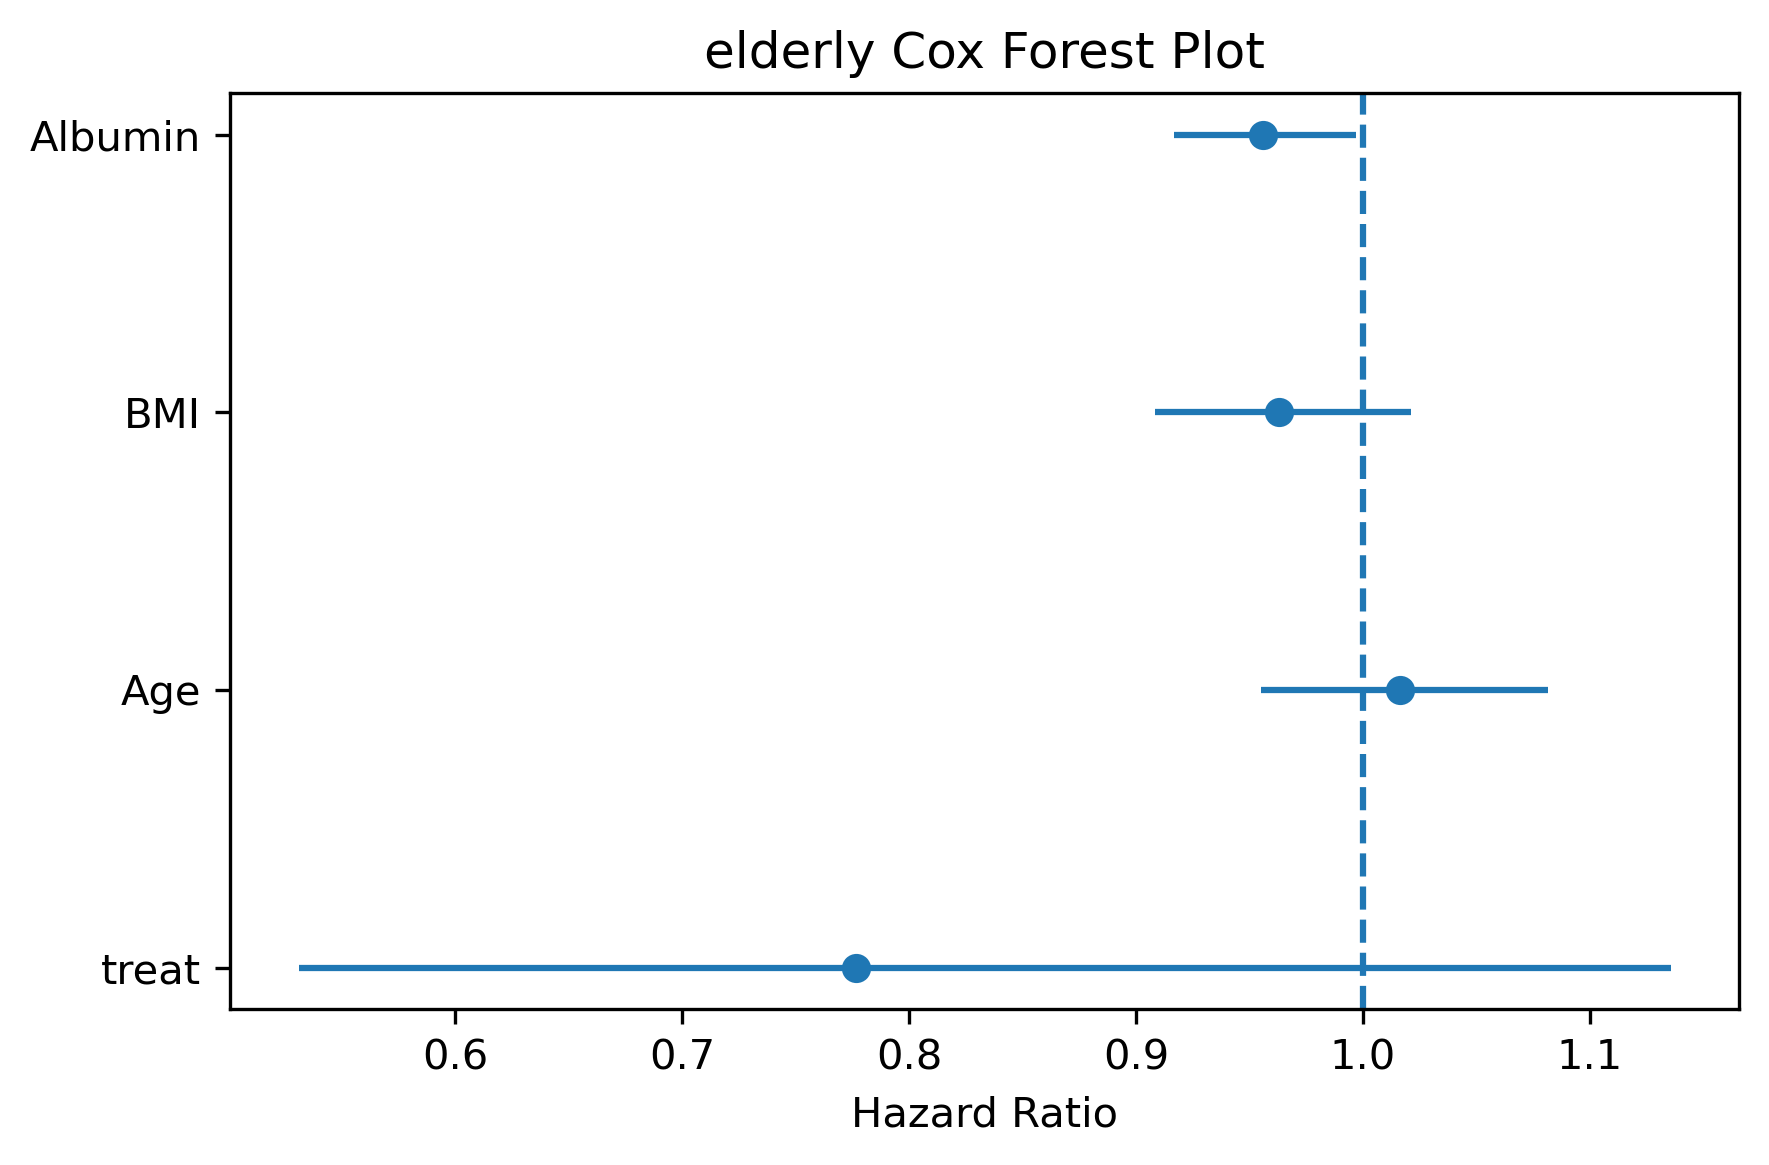
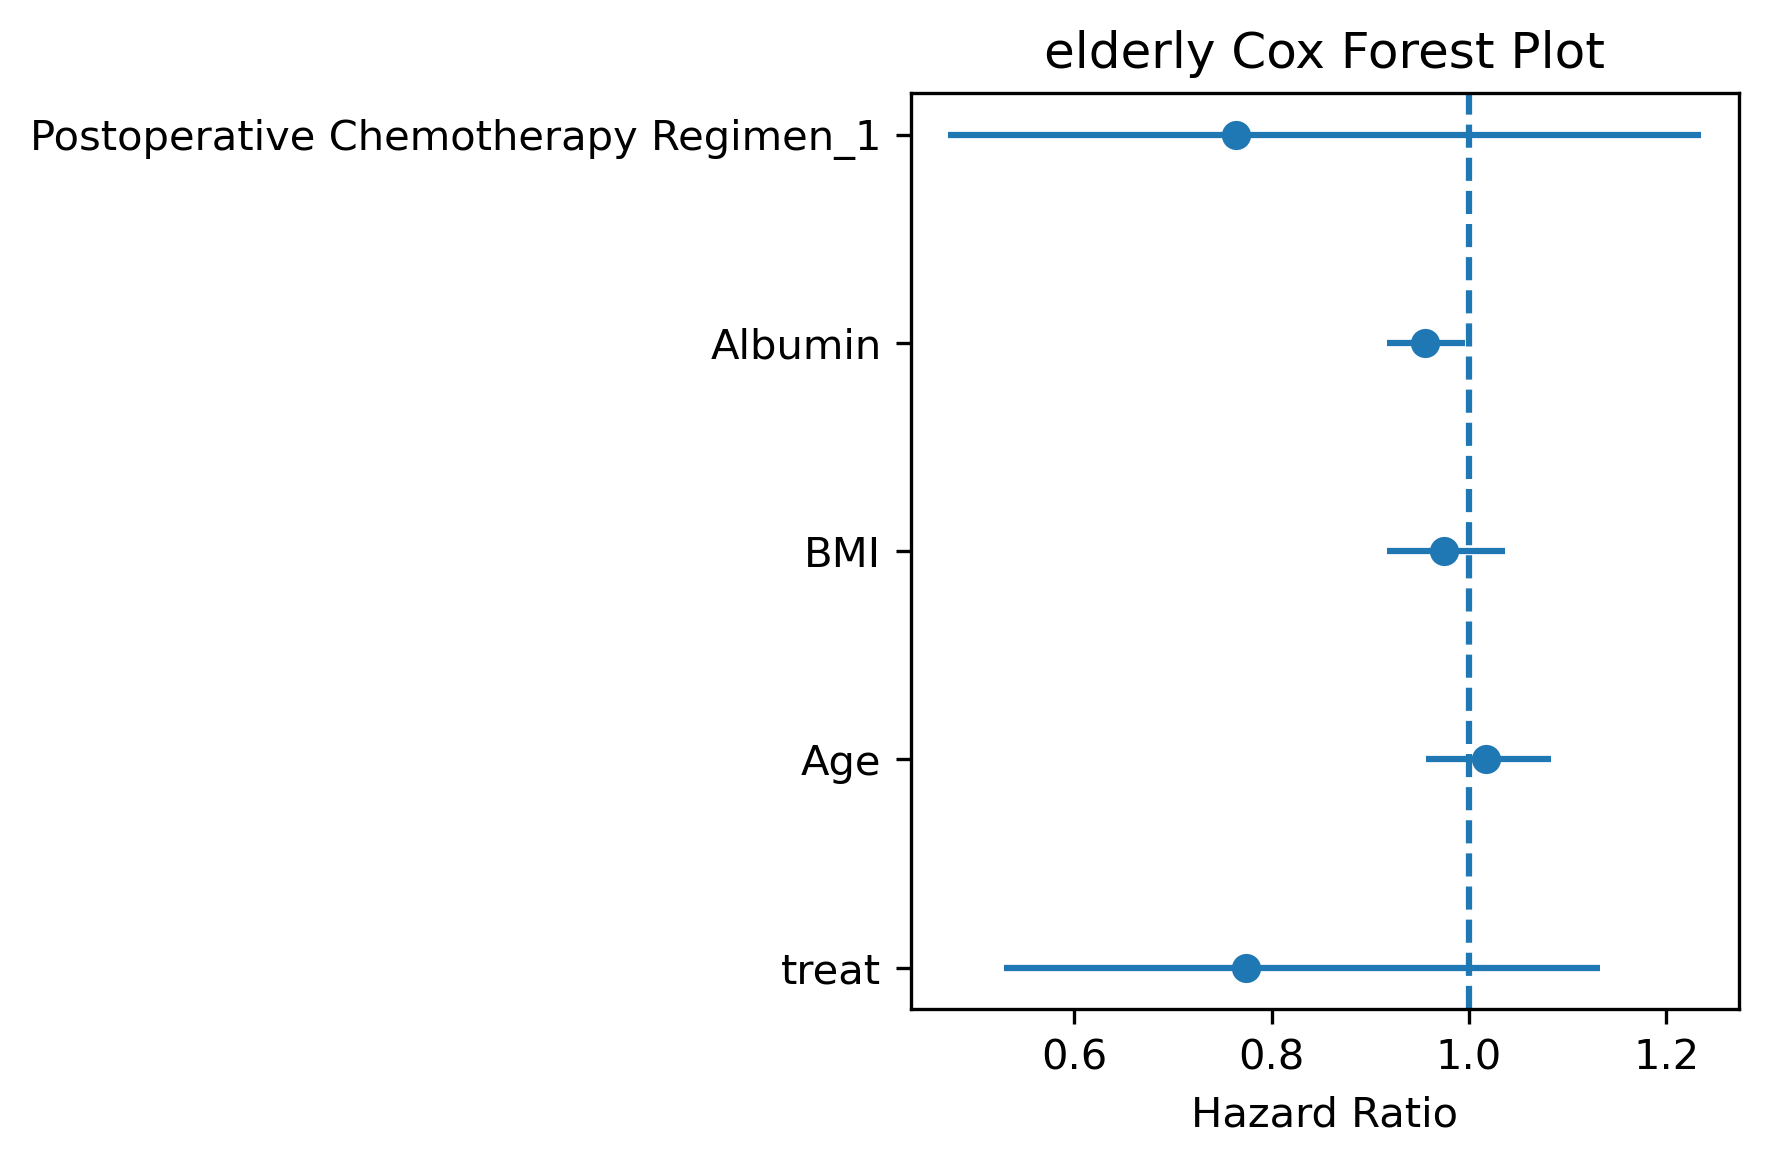
feat: add Postoperative Chemotherapy Regimen to cox

diff --git a/analysis.py b/analysis.py
@@ -1,0 +1,139 @@
+import os
+import numpy as np
+import pandas as pd
+
+from config import CONTINUOUS_VARS
+
+from lifelines import CoxPHFitter
+
+
+# ==========================================
+# Multivariable Cox Regression
+# ==========================================
+def run_cox_analysis(
+    matched_df,
+    dataset_name,
+    output_dir,
+    time_col="OS",
+    event_col="Survival Status",
+):
+
+    # ==========================================
+    # 1. define variables
+    # ==========================================
+
+    chemo_var = "Postoperative Chemotherapy Regimen"
+
+    cox_vars = ["treat"] + CONTINUOUS_VARS + [chemo_var]
+
+    # ==========================================
+    # 2. build dataframe
+    # ==========================================
+
+    cox_df = matched_df[[time_col, event_col] + cox_vars].copy()
+
+    # ==========================================
+    # 3. remove missing values
+    # ==========================================
+
+    cox_df = cox_df.dropna()
+
+    # ==========================================
+    # 4. force numeric for survival columns
+    # ==========================================
+
+    cox_df[time_col] = pd.to_numeric(cox_df[time_col], errors="coerce")
+
+    cox_df[event_col] = pd.to_numeric(cox_df[event_col], errors="coerce")
+
+    cox_df = cox_df.dropna()
+
+    # ==========================================
+    # 5. categorical variables
+    # ==========================================
+
+    categorical_vars = [chemo_var]
+
+    cox_df = pd.get_dummies(cox_df, columns=categorical_vars, drop_first=True)
+
+    # ==========================================
+    # 6. remove constant columns
+    # ==========================================
+
+    constant_cols = []
+
+    for col in cox_df.columns:
+
+        if col in [time_col, event_col]:
+            continue
+
+        if cox_df[col].nunique() <= 1:
+            constant_cols.append(col)
+
+    if len(constant_cols) > 0:
+
+        cox_df = cox_df.drop(columns=constant_cols)
+
+    # ==========================================
+    # 7. fit Cox model
+    # ==========================================
+
+    cph = CoxPHFitter()
+
+    cph.fit(
+        cox_df,
+        duration_col=time_col,
+        event_col=event_col,
+    )
+
+    # ==========================================
+    # 8. summary table
+    # ==========================================
+
+    summary = cph.summary.copy()
+
+    summary["HR"] = np.exp(summary["coef"])
+
+    summary["HR_lower"] = np.exp(summary["coef lower 95%"])
+
+    summary["HR_upper"] = np.exp(summary["coef upper 95%"])
+
+    result_table = summary[
+        [
+            "HR",
+            "HR_lower",
+            "HR_upper",
+            "p",
+        ]
+    ].copy()
+
+    result_table = result_table.round(4)
+
+    # ==========================================
+    # 9. save outputs
+    # ==========================================
+
+    os.makedirs(output_dir, exist_ok=True)
+
+    result_table.to_excel(os.path.join(output_dir, f"{dataset_name}_Cox_results.xlsx"))
+
+    summary.to_excel(os.path.join(output_dir, f"{dataset_name}_Cox_full_summary.xlsx"))
+
+    # ==========================================
+    # 10. PH assumption check
+    # ==========================================
+
+    ph_test_result = cph.check_assumptions(
+        cox_df, p_value_threshold=0.05, show_plots=False
+    )
+
+    # ==========================================
+    # 11. save model dataframe
+    # ==========================================
+
+    cox_df.to_excel(
+        os.path.join(output_dir, f"{dataset_name}_Cox_input_dataframe.xlsx"),
+        index=False,
+    )
+
+    return cph, result_table

diff --git a/PSM_analyse.py b/PSM_analyse.py
@@ -16,22 +16,14 @@ from sklearn.inspection import permutation_importance
 
 from lifelines import KaplanMeierFitter
 from lifelines.statistics import logrank_test
-from lifelines import CoxPHFitter
 
 from sksurv.util import Surv
 from sksurv.ensemble import RandomSurvivalForest
 from sksurv.metrics import cumulative_dynamic_auc
 
+from config import CATEGORICAL_VARS, CONTINUOUS_VARS
+from analysis import run_cox_analysis
 from utils import smd_categorical, smd_continuous, smd
-
-CONTINUOUS_VARS = ["Age", "BMI", "Albumin"]
-CATEGORICAL_VARS = [
-    "AJCC Stage",
-    "ASA Score",
-    "pTNM_T",
-    "Anaemia",
-    "Surgical procedure",
-]
 
 
 # =========================
@@ -397,37 +389,6 @@ def run_km_analysis(
     print(f"KM analysis finished: p={p_value:.4f}")
 
     return p_value
-
-
-# =========================
-# 9. Cox regression
-# =========================
-def run_cox_analysis(
-    matched_df, dataset_name, output_dir, time_col="OS", event_col="Survival Status"
-):
-
-    cox_vars = ["treat"] + CONTINUOUS_VARS
-
-    cox_df = matched_df[[time_col, event_col] + cox_vars].copy()
-
-    cph = CoxPHFitter()
-
-    cph.fit(cox_df, duration_col=time_col, event_col=event_col)
-
-    # summary table
-    summary = cph.summary.copy()
-
-    summary["HR"] = np.exp(summary["coef"])
-    summary["HR_lower"] = np.exp(summary["coef lower 95%"])
-    summary["HR_upper"] = np.exp(summary["coef upper 95%"])
-
-    result_table = summary[["HR", "HR_lower", "HR_upper", "p"]]
-
-    result_table.to_excel(os.path.join(output_dir, f"{dataset_name}_Cox_results.xlsx"))
-
-    print("\nCox regression completed.")
-
-    return cph, result_table
 
 
 # =========================

diff --git a/config.py b/config.py
@@ -1,0 +1,8 @@
+CONTINUOUS_VARS = ["Age", "BMI", "Albumin"]
+CATEGORICAL_VARS = [
+    "AJCC Stage",
+    "ASA Score",
+    "pTNM_T",
+    "Anaemia",
+    "Surgical procedure",
+]